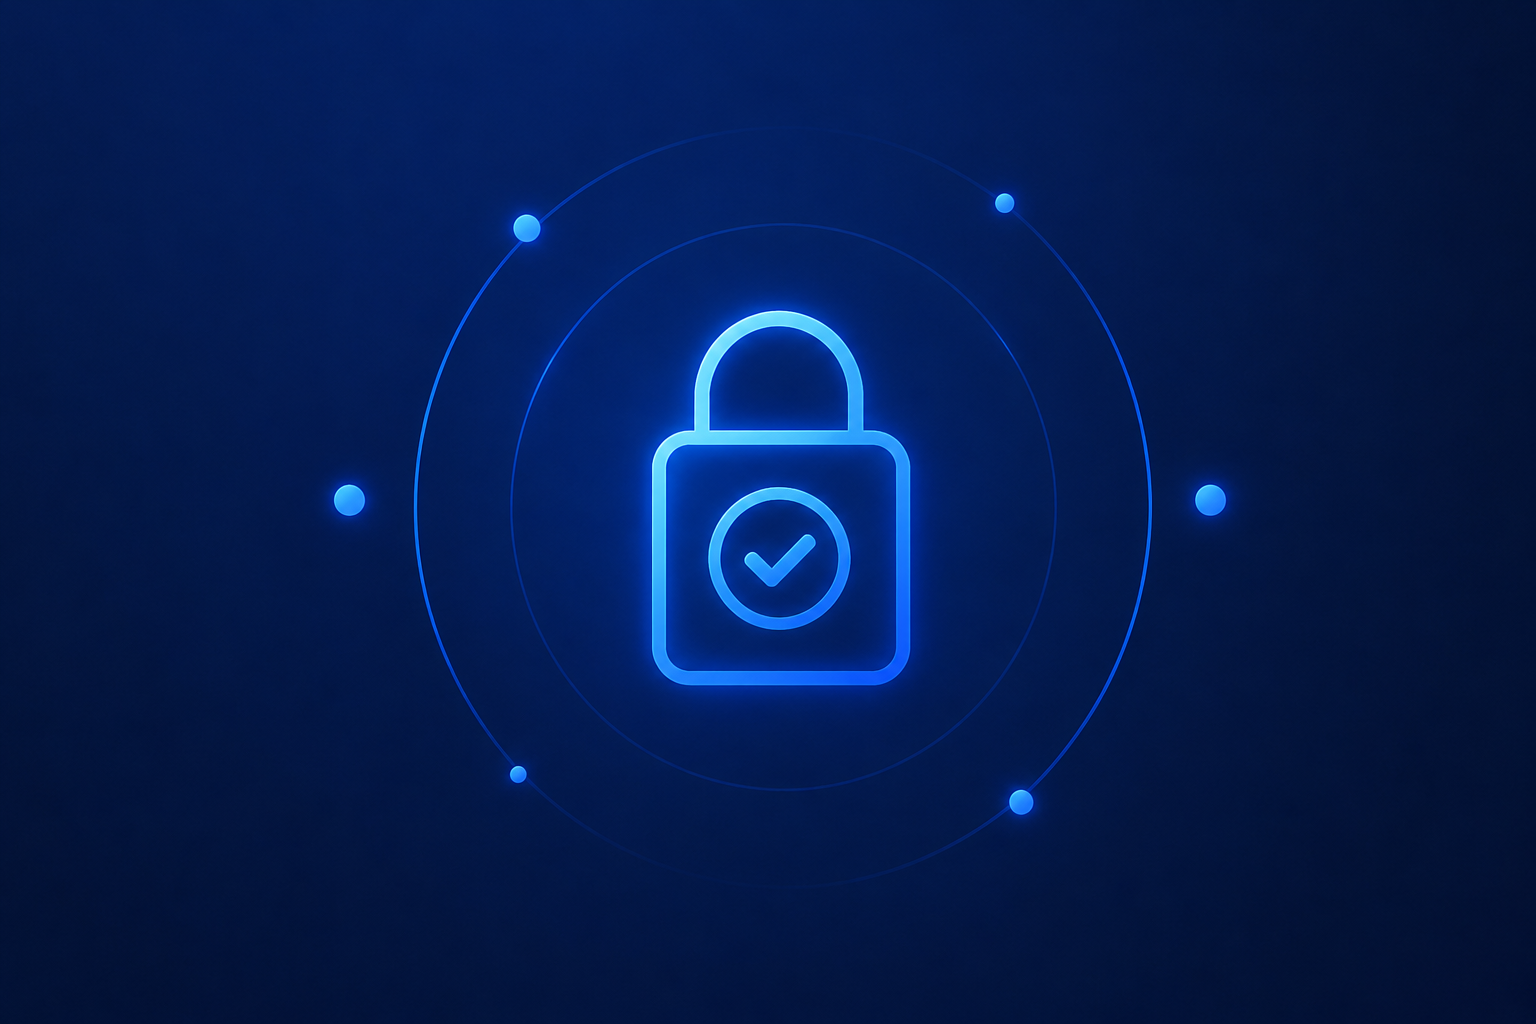
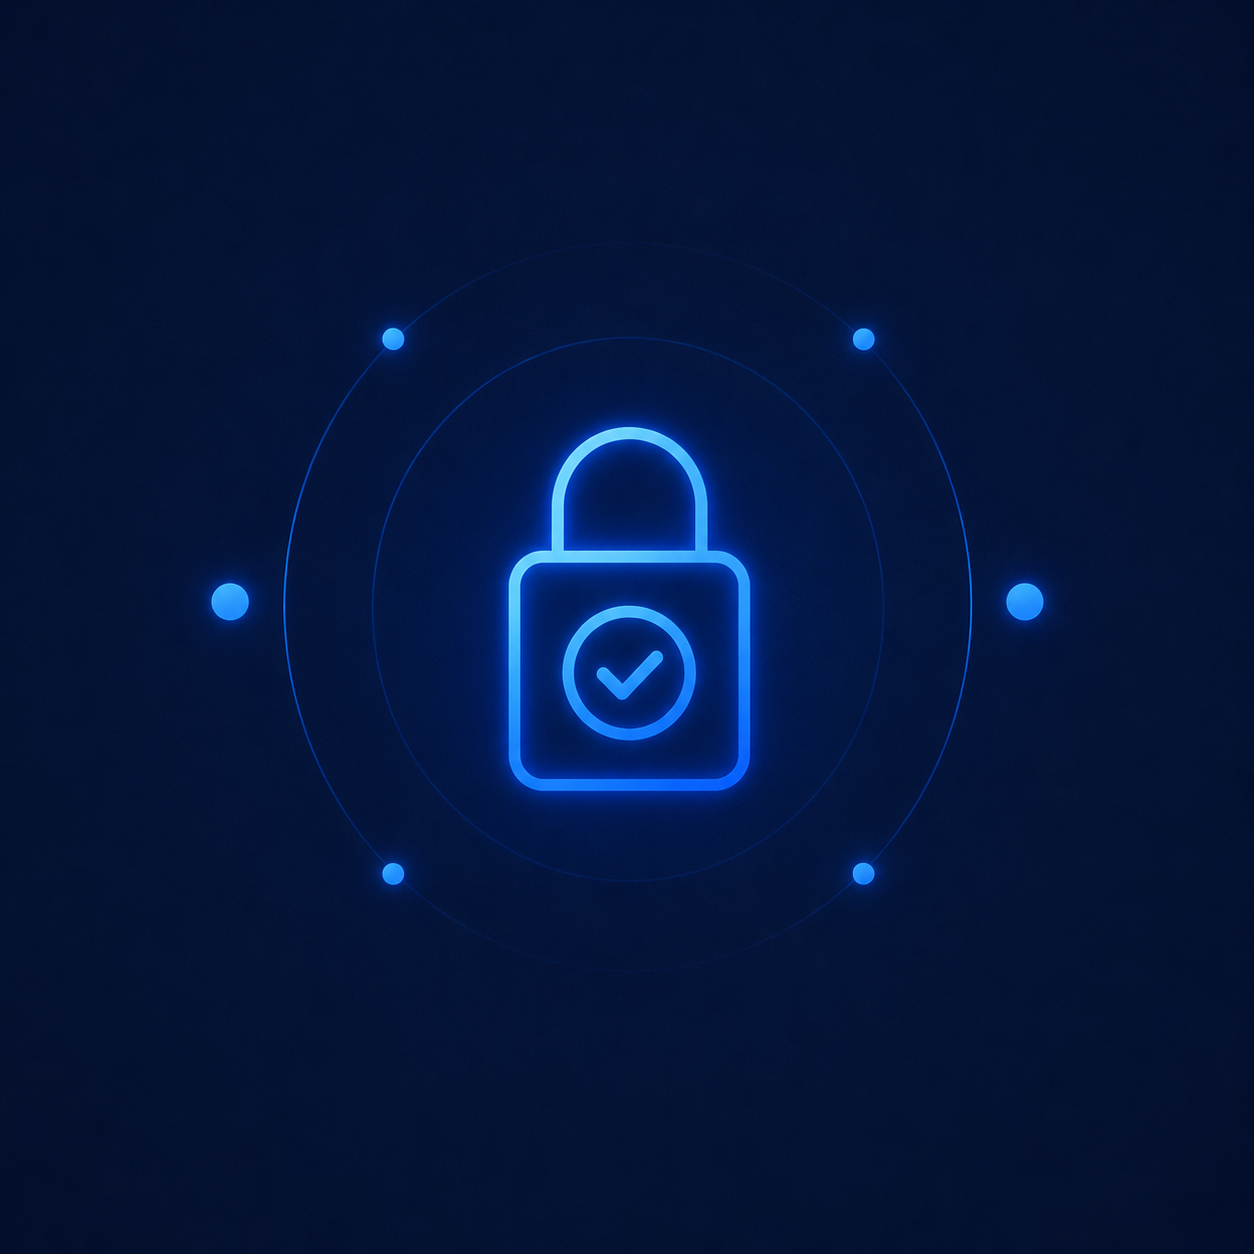
ログイン: 正方形＋暗背景のカギ画像に更新(周囲と色差なく溶け込み)
背景をカードに合わせた正方形版に差し替え、closest-side放射マスクで縁をフェード。
箱・色差が出ずカードに完全になじむ。鮮明・アニメ無し。
実画面(1280x760)で境目なしを確認

diff --git a/app/globals.css b/app/globals.css
@@ -7355,19 +7355,19 @@ td.v-strong,
 }
 .lg-lock {
   position: relative;
-  width: 288px;
-  height: 192px;
-  margin: 6px auto 18px;
+  width: 250px;
+  height: 250px;
+  margin: 2px auto 12px;
   display: grid;
   place-items: center;
 }
-/* 背景色を合わせた画像をそのまま埋め込み。縁だけごく軽くフェードして境目を消す。 */
+/* 背景色を合わせた正方形画像をそのまま埋め込み。縁を放射マスクでフェードして境目を消す。 */
 .lg-lock-img {
   display: block;
-  width: 288px;
-  height: auto;
-  -webkit-mask-image: radial-gradient(farthest-side, #000 78%, transparent 100%);
-  mask-image: radial-gradient(farthest-side, #000 78%, transparent 100%);
+  width: 250px;
+  height: 250px;
+  -webkit-mask-image: radial-gradient(closest-side, #000 74%, transparent 100%);
+  mask-image: radial-gradient(closest-side, #000 74%, transparent 100%);
 }
 .lg-lock-svg {
   width: 86px;
